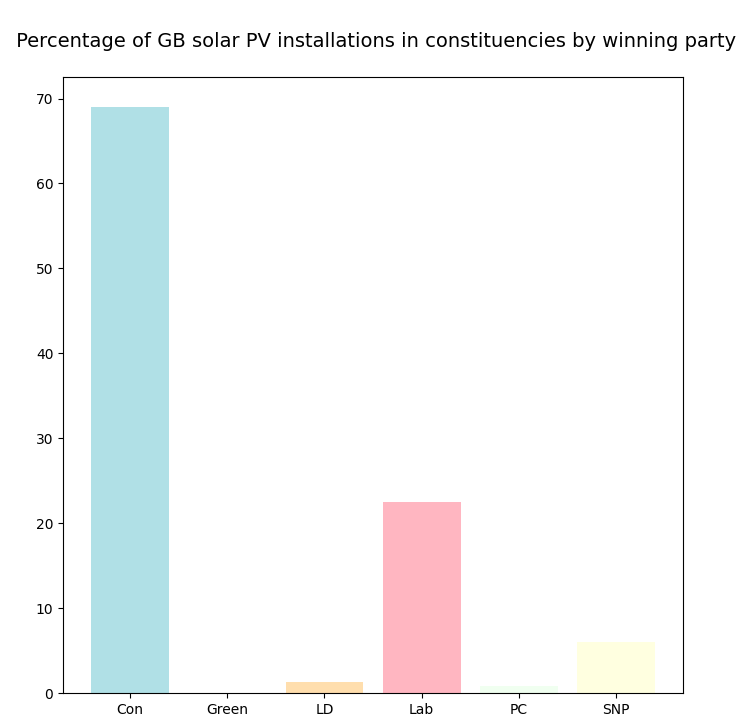
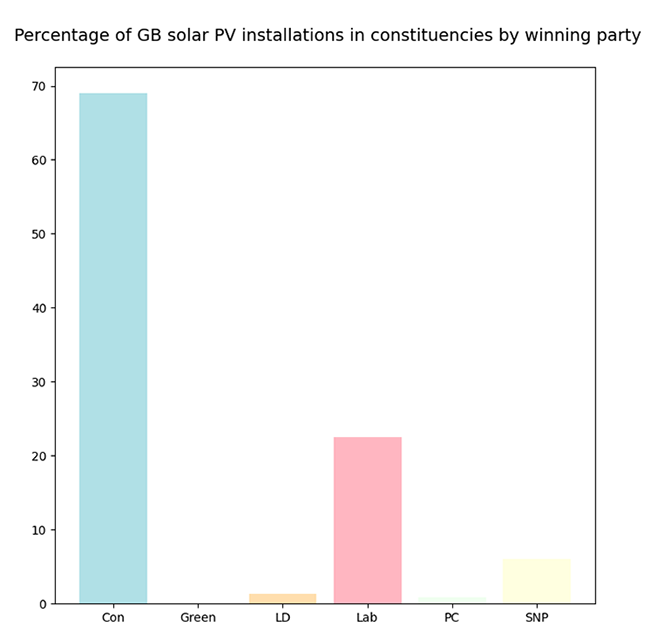
Two posts complete

diff --git a/content/posts/Elmovo_explanation.md b/content/posts/Elmovo_explanation.md
@@ -4,15 +4,21 @@ date: 2023-05-02T16:58:25+01:00
 draft: false
 ---
 
-I was co-founder of a gig-economy focused electric moped rental service, the idea of which was to match bike rentals to the times the riders work, whether that was every day or just once or twice a week. Riders could book and pick up a bike from one of our locations, do a shift and return the bike. The only alternative options were weekly moped rentals, usually with a 4-week minimum.
+### Rider behaviour dictated by battery capacity
+
+I was co-founder of a gig-economy focused electric moped rental service, the USP of which was to match bike rentals to the times the riders work, whether that was every day or just once or twice a week. Riders could book and pick up a bike from one of our locations, do a shift and return the bike. The only alternative options were weekly moped rentals, usually with a 4-week minimum.
 
 The main constraint on the service was the range of the bikes and therefore, how long a rider could use the bike before running out of charge. We estimated that the batteries should last 6 hours including time waiting for deliveries and set standard rental length to that. We subsequently introduced 3-hour rentals based on rider feedback.
+
+![targets](/img/elmovo_rental_length.png)
 
 We had complaints that bikes did not last the full 6-hour rental period – and this is evident from the box plots for the four branches. The 75th percentile at all locations is below the 6-hour mark and the medians are closer to, and in one case below, 5 hours. With 3-hour rentals the 75th percentiles are at or above 3 hours and the distributions are also negatively skewed, meaning that a greater proportion of rentals finished at, or close to, the 3-hour period. The pattern is likely to have been similar for the 6-hour rentals without the battery range issue.
 
 The Swiss Cottage (SC) location fared worse than the the other 3 and there is one principal reason for this: the branch was based at a Deliveroo kitchen which closed at 11pm when a gate was locked, so there was a hard cut-off for bikes to be returned whatever the rental start time. 
 
 We had also thought that it might be because the site served Hampstead, which meant a lot of hills that drained the batteries more quickly. However looking at the distance covered during rentals tells a different story.
+
+![targets](/img/elmovo_rental_distance.png)
 
 The interquartile range shows Swiss Cottage to have the greatest distances for the majority of rentals. The reason for this is two-fold: there was charging available for the mopeds which the riders could use while they were waiting for the next delivery, so the hills caused no reduction in overall range – and also they could fit more deliveries into the shorter rental period because the bikes were stored at the kitchen, meaning no travel time at the start and end of the shift and no travelling to a variety of different restaurant locations for pickups.
 
@@ -21,5 +27,7 @@ Comparing the other 2 locations we have distance data for, Devonshire Row Mews (
 A note on the number of outliers. There are a large number at the shorter time-scales as we had some technical issues which meant that we had to manually end rentals and restart them with a new moped. There are a greater number at DRM as that was by far the most popular location with the greatest number of rentals overall. Rentals below an hour long were removed from the dataset.
 
 Looking at a violin plot of all rentals by start time, the evening peak is very pronounced, as is the preference for 6-hour rentals. There is some evidence for the 3-hour rentals being used to keep working later in the evening after a 6-hour rental. The plan had been to increase utilisation rates by renting to non-food couriers during the working day, however the onset of the pandemic stopped progress at an early stage.
+
+![targets](/img/elmovo_rental_start_time.png)
 
 The hard cut-off of the plots of some days at the end of the evening are cause by the start time data being saved by hour only and not minutes. Therefore on quieter days like Monday and Wednesday there are no rentals past 9pm and all rentals during the previous hour were given a start time of 8pm exactly.

diff --git a/content/posts/PV_constituency.md b/content/posts/PV_constituency.md
@@ -4,15 +4,21 @@ date: 2023-05-09T16:58:25+01:00
 draft: false
 ---
 
-Political gains to be had from backing Solar PV
+### Political gains to be had from backing Solar PV
 
 The good folks at Open Climate Fix, with their open data and code policy, have made a dataset of precise solar PV locations available which I have mapped against electoral constituencies in Great Britain. It’s a relatively small sample size of 24,000 (compared to the 1m+ locations that exist) but still shows a representative spread with the expected urban concentrations and includes some surprising, at least to me, hotspots, eg Peterborough, Leicester and Colchester.
+
+![targets](/img/pv_map_small.png)
 
 Maybe they are due to local council initiatives – Peterborough had a free solar scheme in 2015 and both Leicestershire and Essex county councils have been running solar group buying schemes – or else down to supercharged reporting of PV installations on the ground in these areas.
 
 To look in detail at PV locations by constituency winners at the 2019 general election, the UK government figures from BEIS have comprehensive data on all PV installations, which total 1.12m in the UK as of February 2023. This shows urban concentrations of PV sites in Labour seats are completely outweighed by the dispersed spread in Conservative more rural areas – 22.5% and 69% of the UK total respectively – with SNP constituencies taking 6%. 
 
+![targets](/img/percent_pv_party.png)
+
 Even taking into account population and looking at the number of PV installations per capita, pro-solar policies would benefit Conservative constituents more than any other party bar Plaid Cymru, with the Conservative figure 1.8 times the Labour number. (Assuming that numbers of PV systems already installed are an indicator of future interest.)
+
+![targets](/img/pv_per_capita_700.png)
 
 Add to this that 57% of voters who owned their own home outright voted Conservative, as did 43% with mortgages (home ownership presumably being a near prerequisite for installing solar panels). Also 58% of people intending to vote Conservative at the next election want to see more renewables deployed to bring down bills and 46% of voters say they would be less likely to vote for a party that pledged to get rid of the Net Zero target.
 
